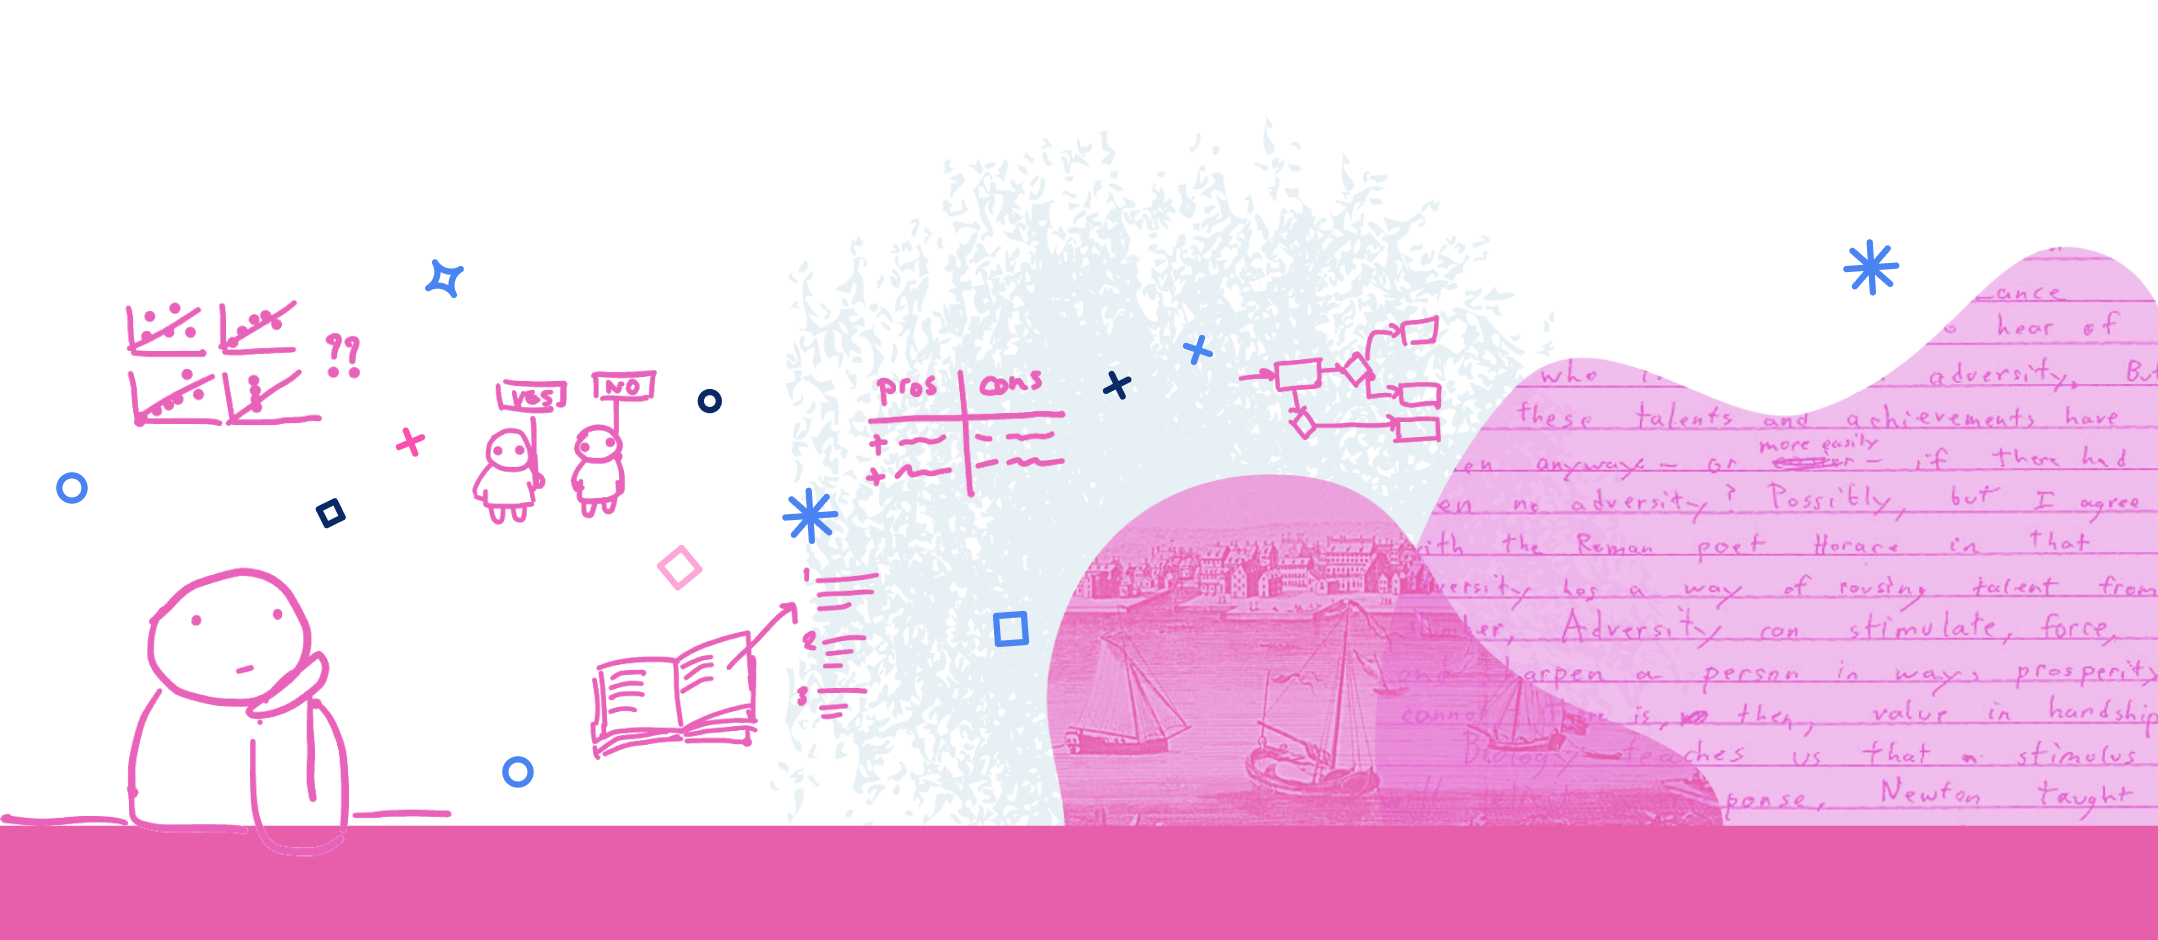
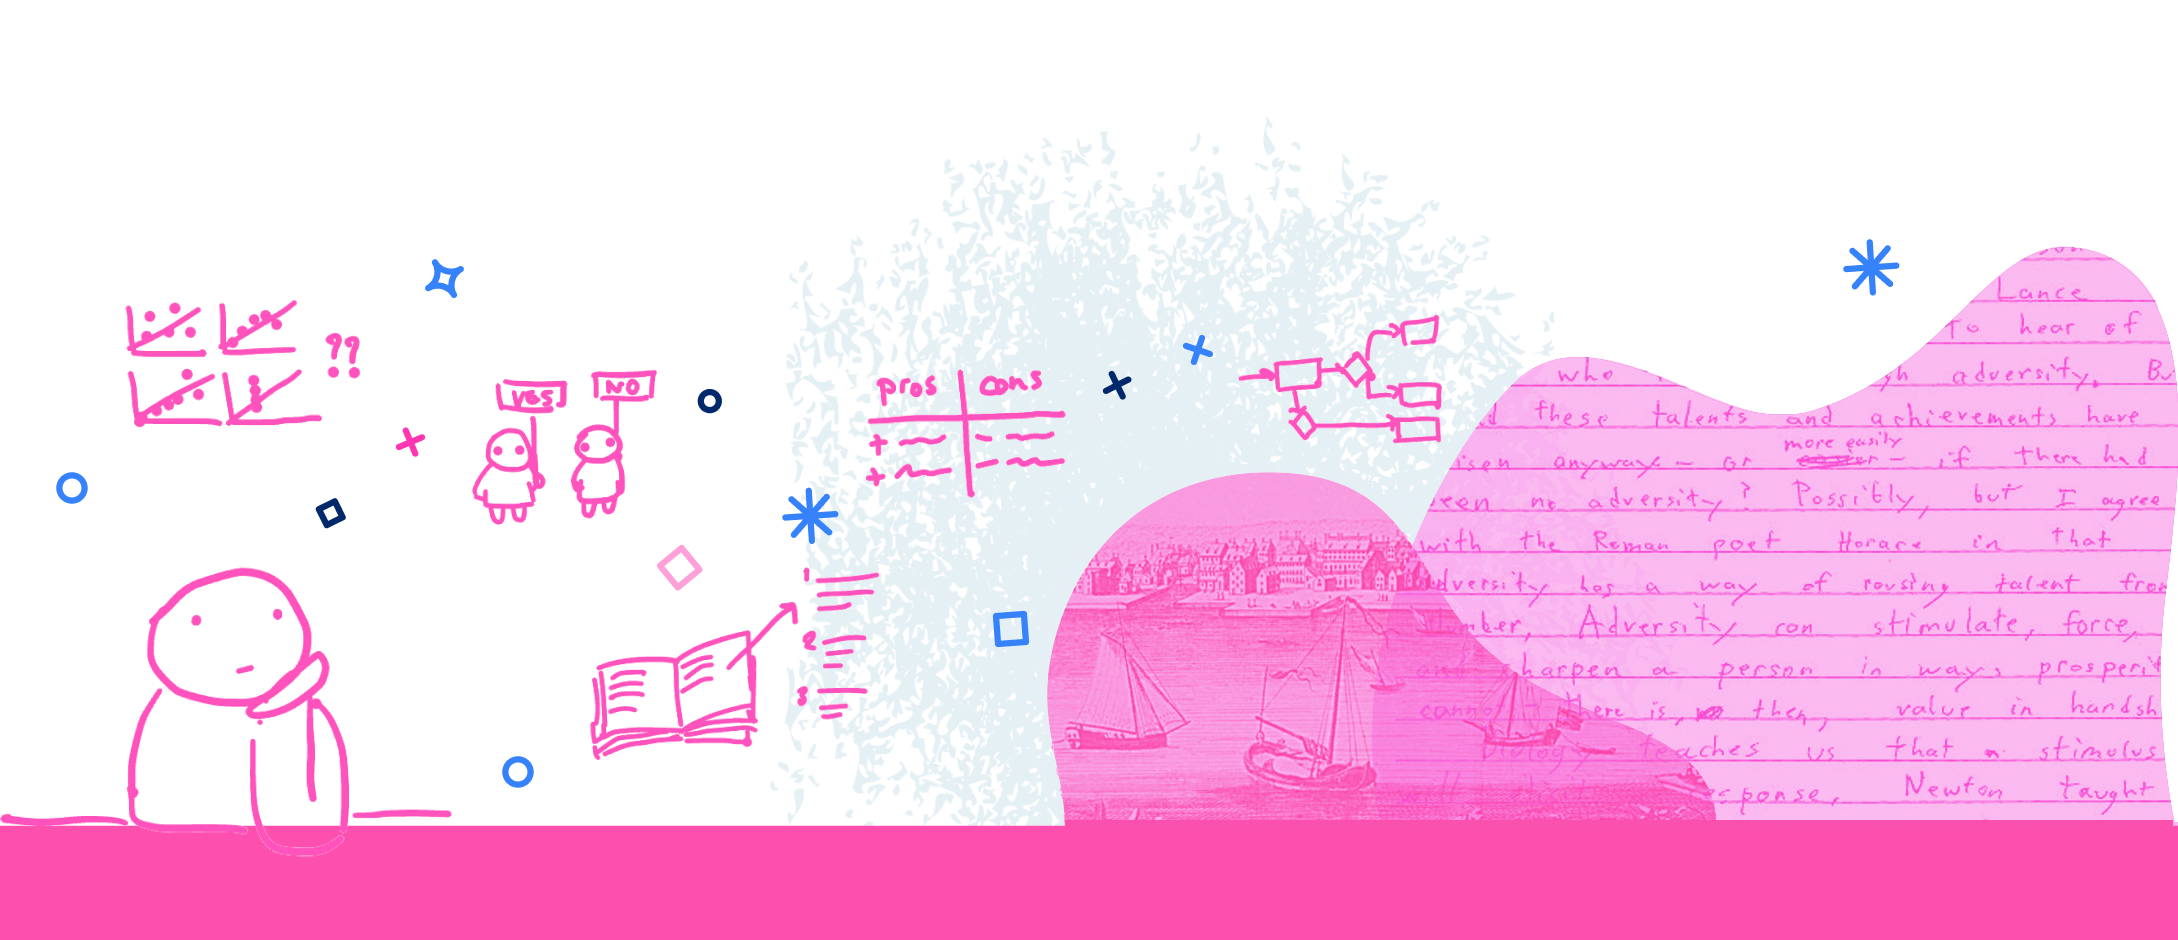
Rounded off right edge of heading

diff --git a/src/Document.js b/src/Document.js
@@ -68,13 +68,13 @@ const styles = StyleSheet.create({
   },
 
   heroImage: {
-    marginTop: 16,
+    marginTop: 17,
     position: "absolute",
     left: 0,
     width: "100%",
     height: 470,
     background: "url(images/heading.png) no-repeat",
-    backgroundSize: "1079px 470px",
+    backgroundSize: "1089px 470px",
     backgroundPosition: "top center",
     zIndex: -1,
     [mobileQuery]: {
